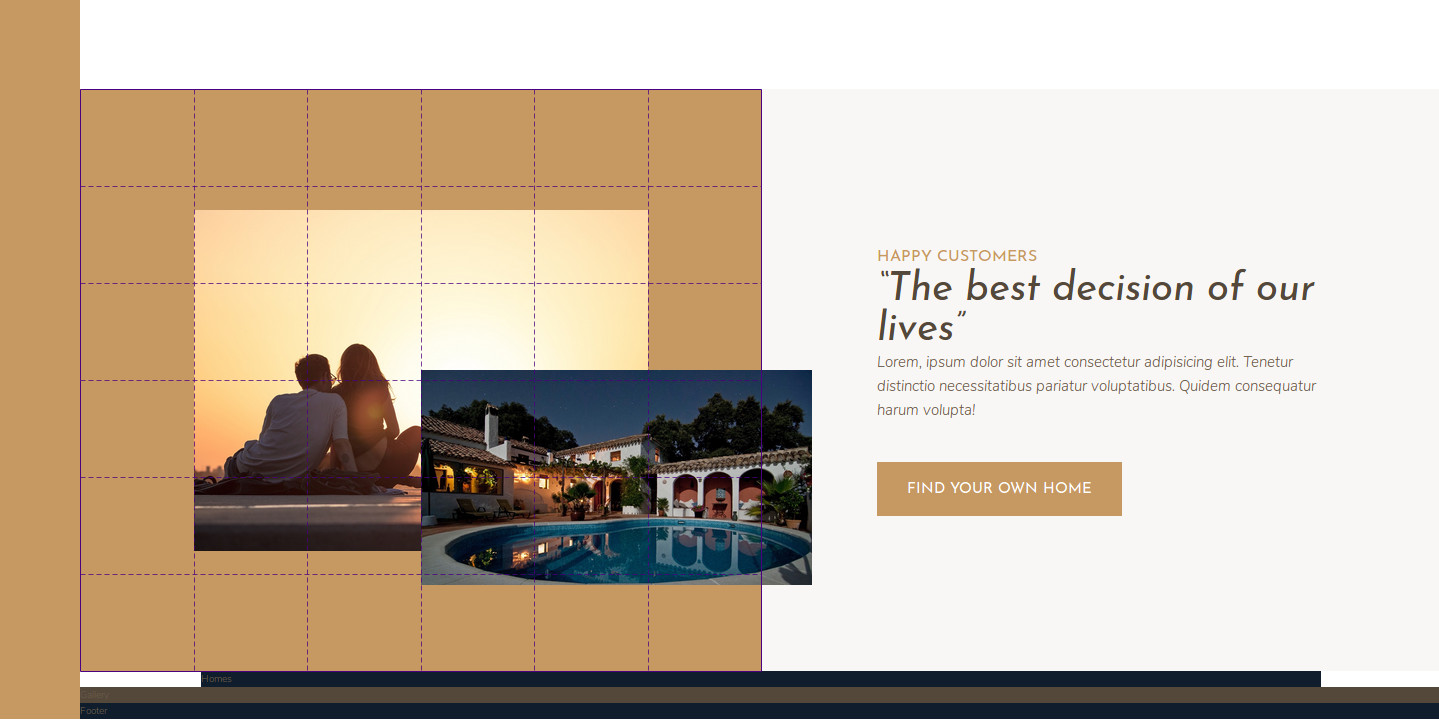
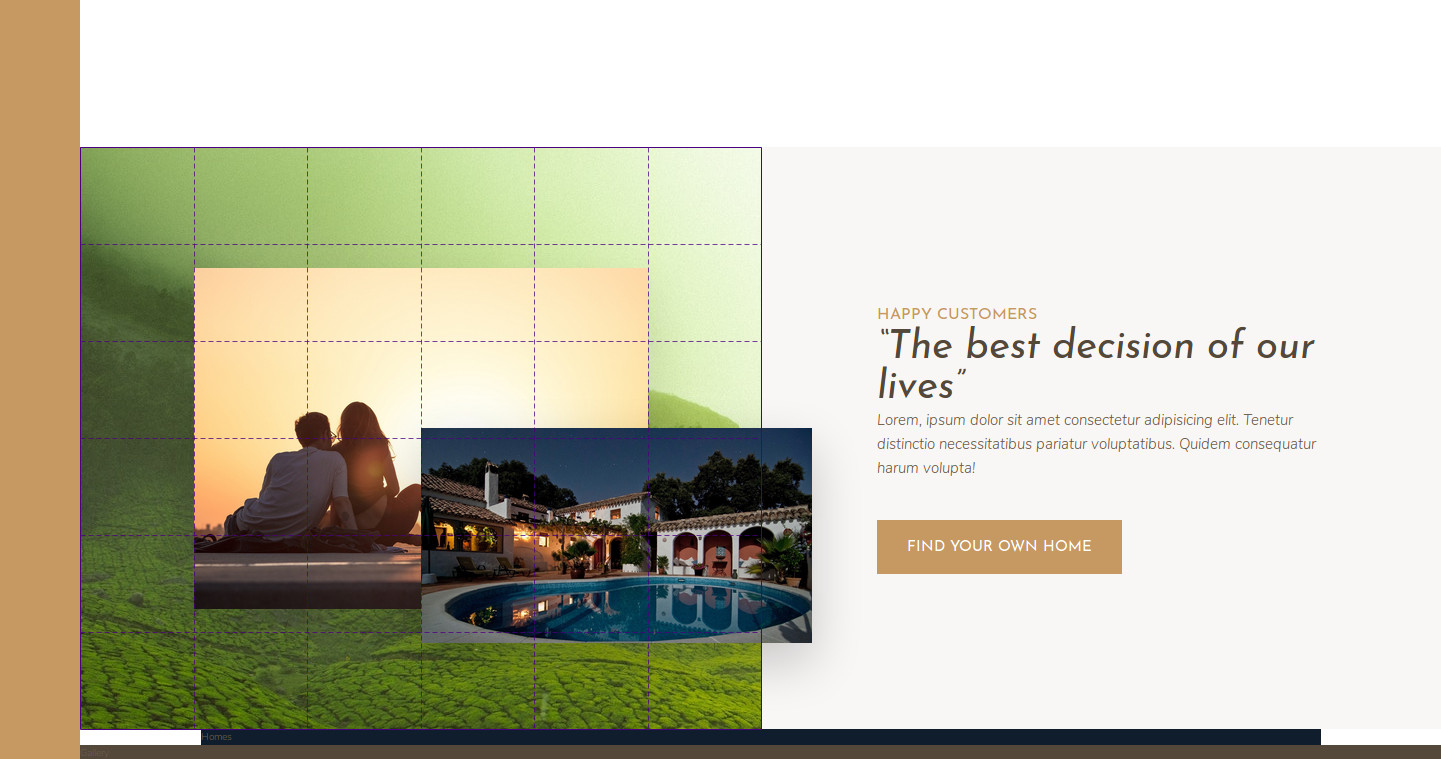
Use linear gradient trick where give two equal colors to the gradient.Finally we have one background-image on top and after that, bellow it basically we have then the image. Our images looks more in place this way than before

diff --git a/sass/_story.scss b/sass/_story.scss
@@ -2,8 +2,8 @@
   &__pictures {
     background-color: $color-primary;
     grid-column: full-start / col-end 4;
-    background-image: url(../img/back.jpg);
-    
+    background-image: linear-gradient(rgba($color-primary, .5), rgba($color-primary, .5)),
+      url(../img/back.jpg);    
     display: grid;
     grid-template-rows: repeat(6, 1fr);
     grid-template-columns: repeat(6, 1fr);
